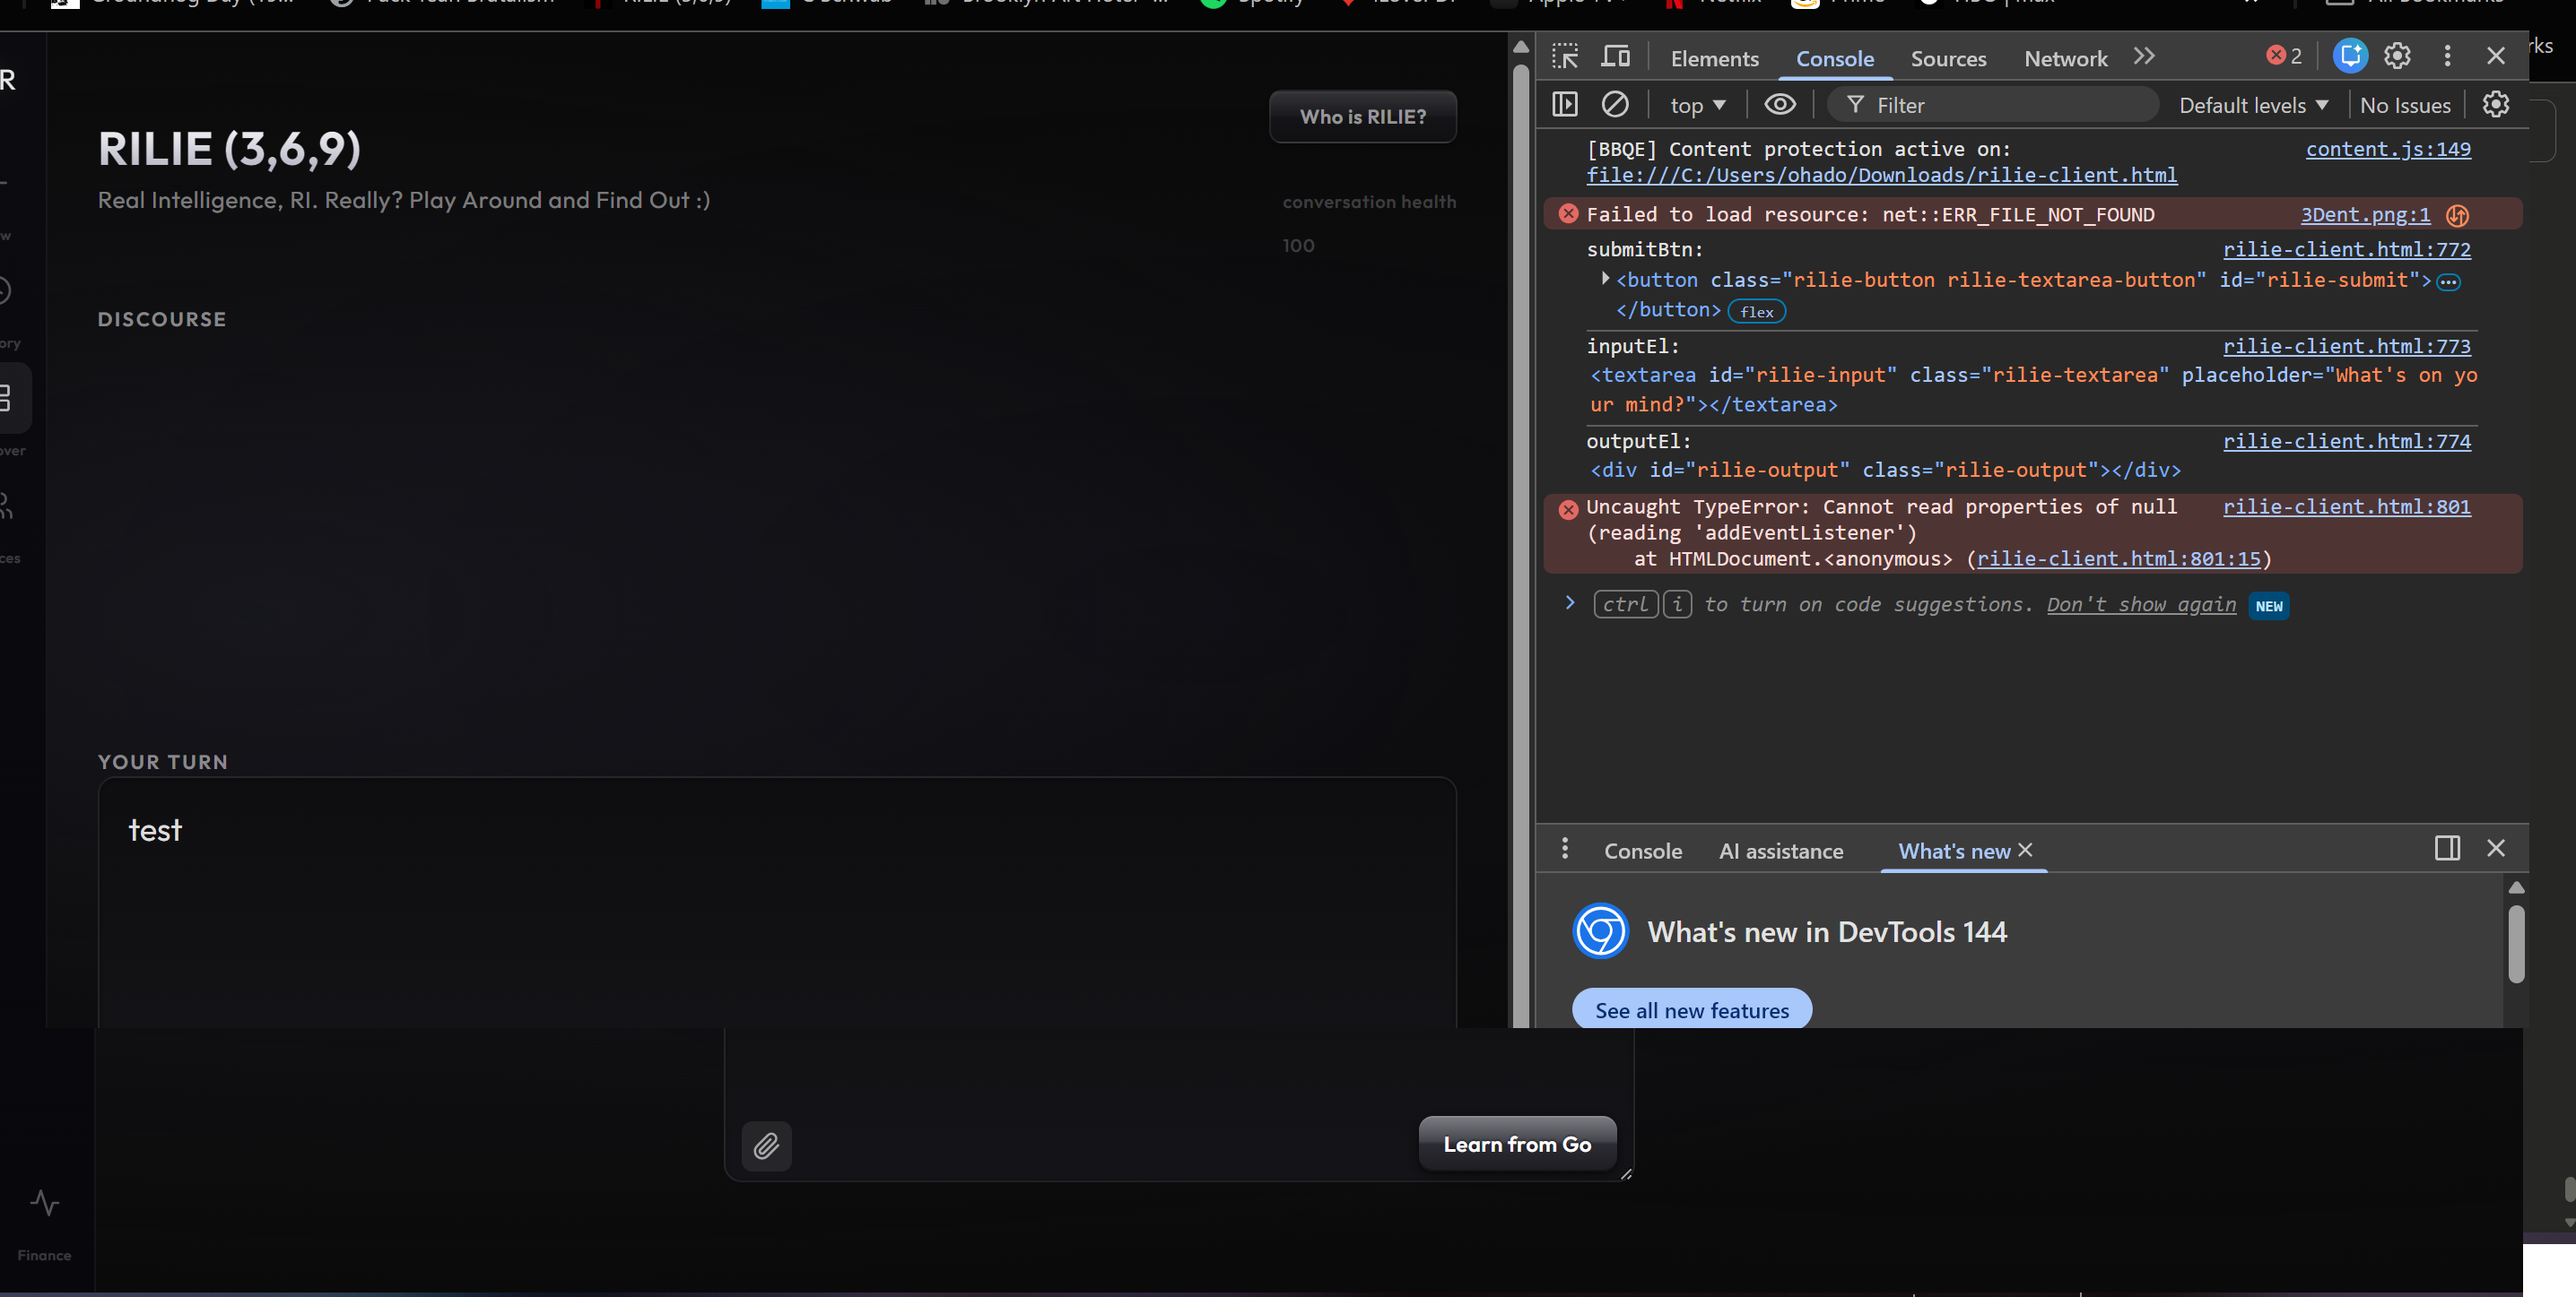
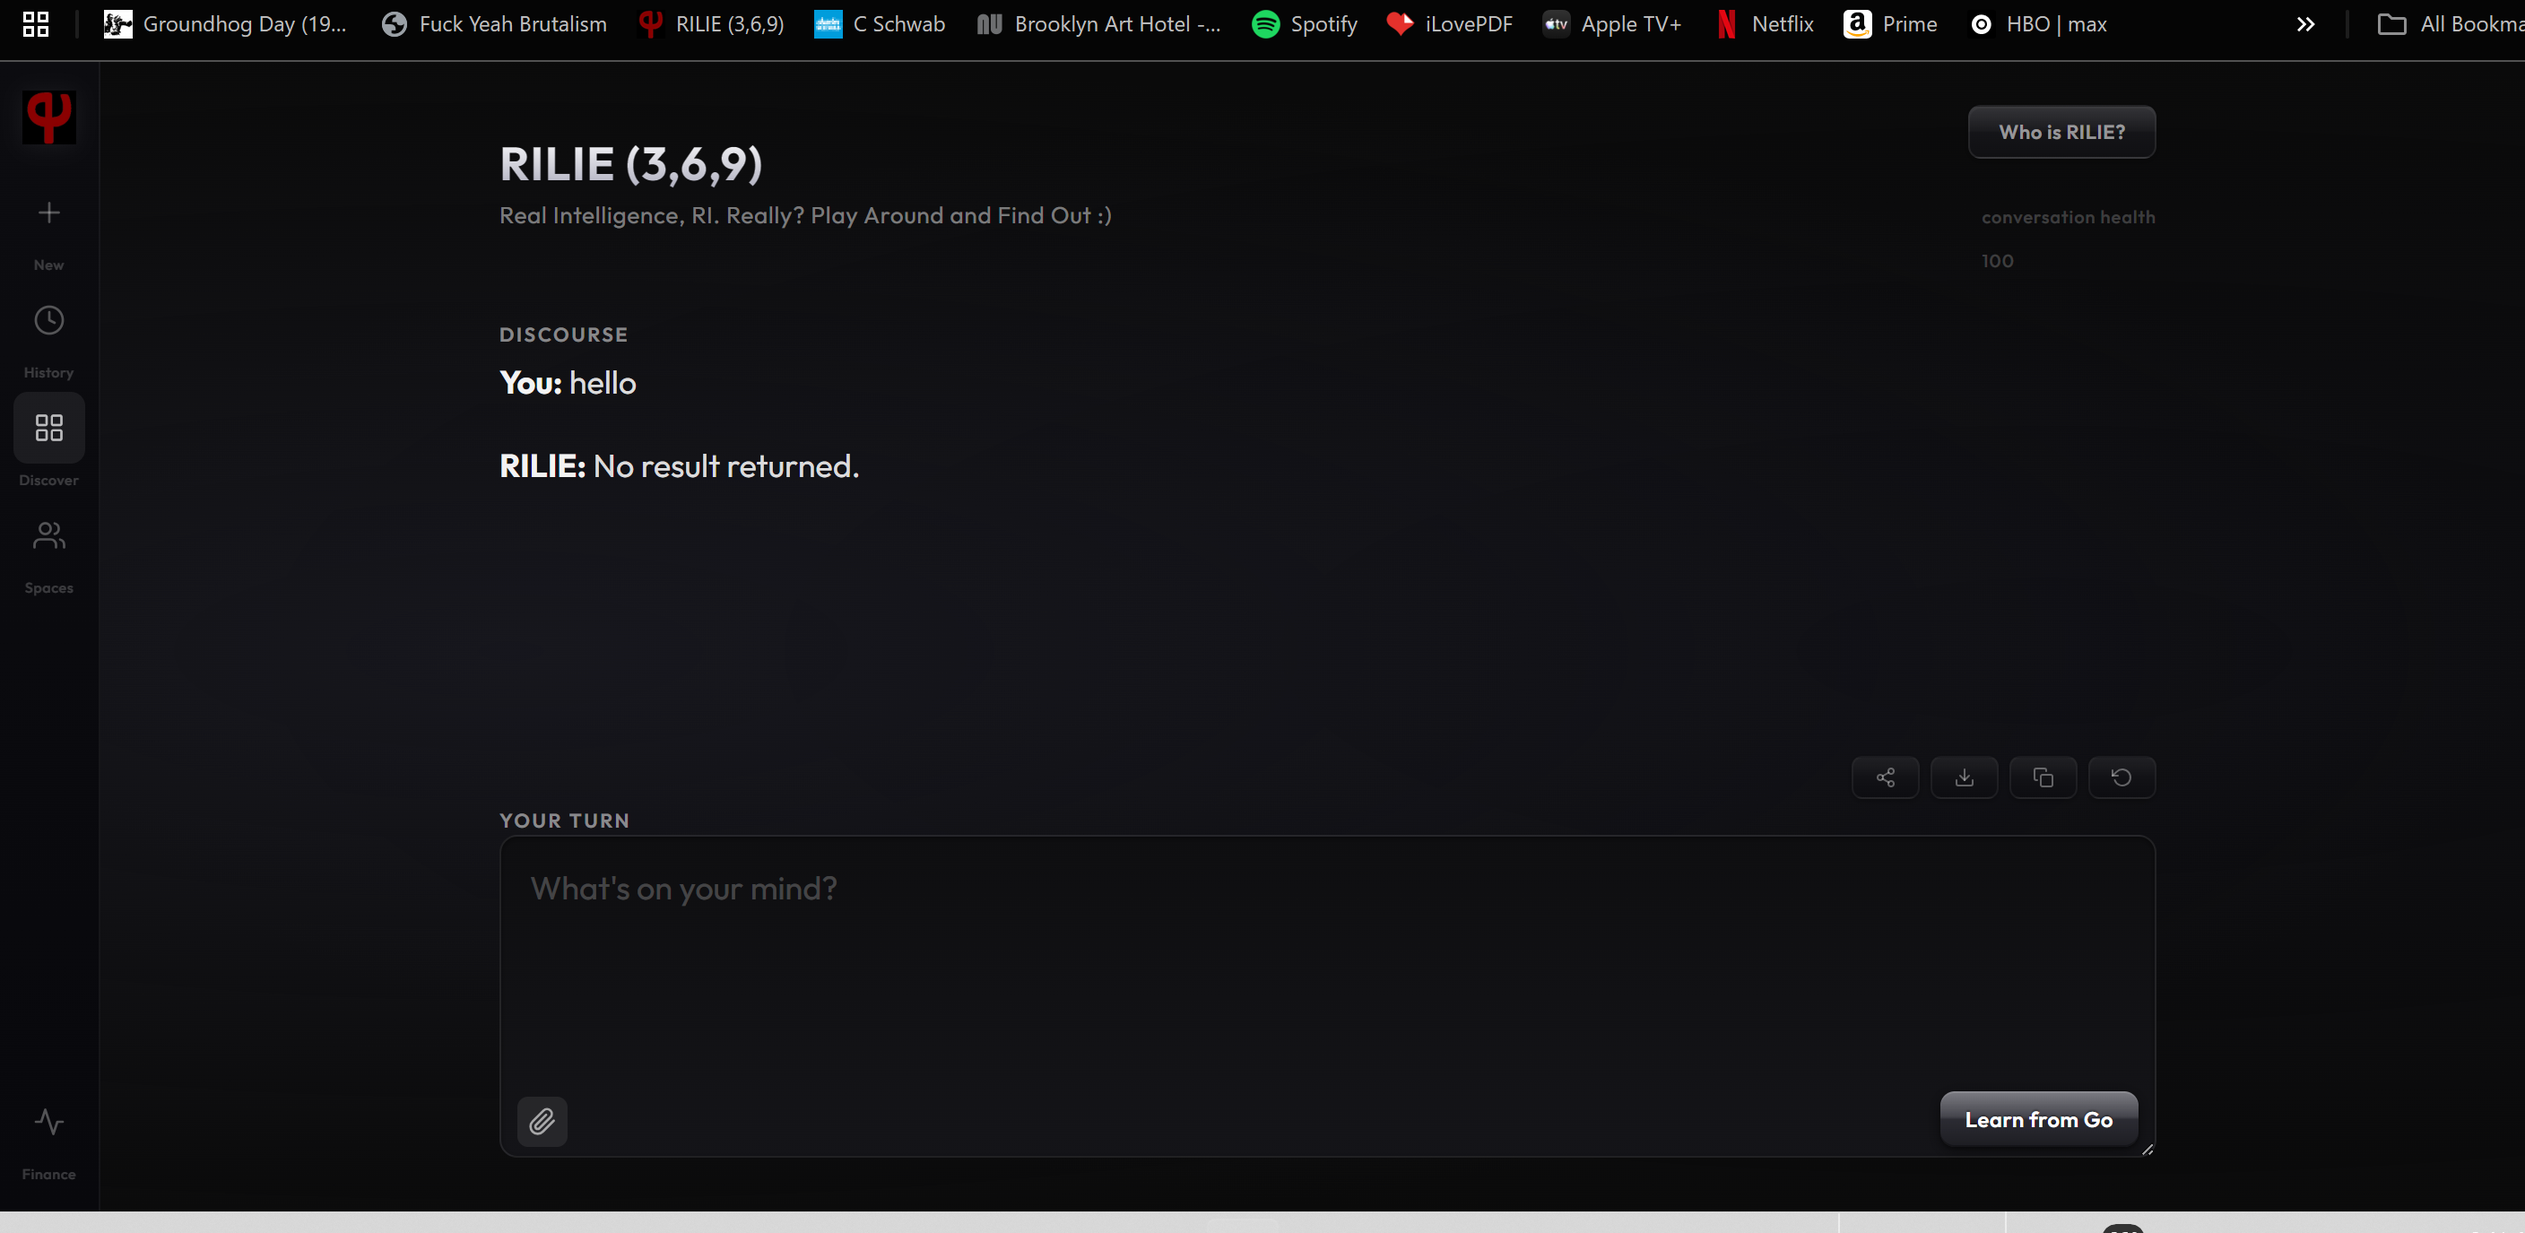
allthewaylive

diff --git a/talk.py b/talk.py
@@ -91,9 +91,27 @@ def gate_relevance(plate: Dict[str, Any], stimulus: str) -> tuple:
     """
     Gate 3: Did she answer what was asked?
     Checks if the response has any connection to the stimulus.
+
+    EXCEPTION: Greetings, goodbyes, and short social exchanges
+    don't need topic relevance. They're social, not topical.
     """
     text = plate.get("result", "").strip()
     if not text:
+        return True, "OK"
+
+    # Social exchanges skip relevance — they're not about a topic
+    s = stimulus.lower().strip()
+    social_signals = [
+        "hi", "hey", "hello", "sup", "what's up", "whats up", "howdy", "yo",
+        "good morning", "good afternoon", "good evening", "hola", "shalom",
+        "bonjour", "bye", "goodbye", "see you", "later", "peace", "thanks",
+        "thank you", "ok", "okay", "cool", "nice", "wow", "haha", "lol",
+        "my name is", "i'm ", "call me",
+    ]
+    if any(s.startswith(g) or s == g for g in social_signals):
+        return True, "OK"
+    # Very short stimulus (< 4 words) — social by nature
+    if len(s.split()) < 4:
         return True, "OK"
 
     stim_words = _words(stimulus)
